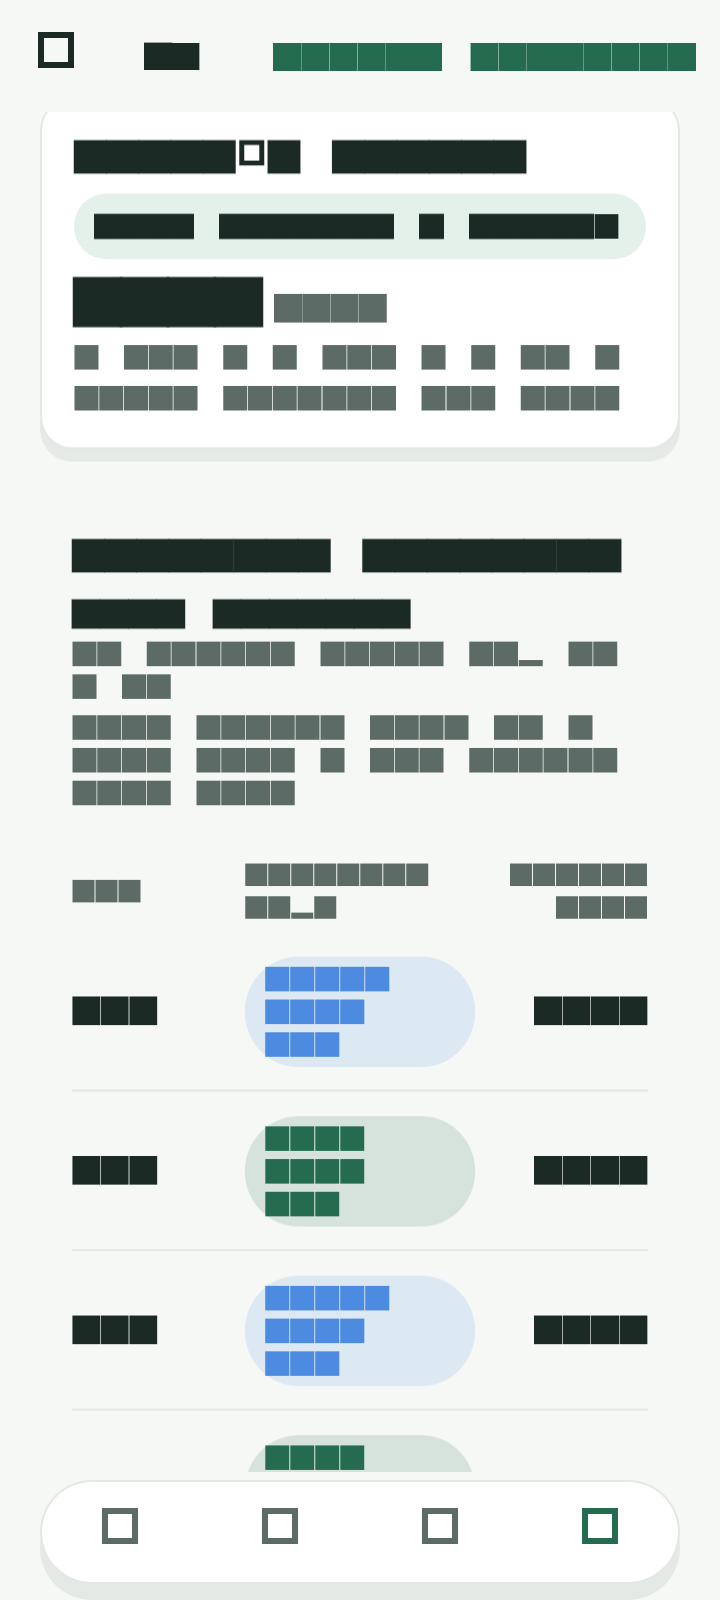
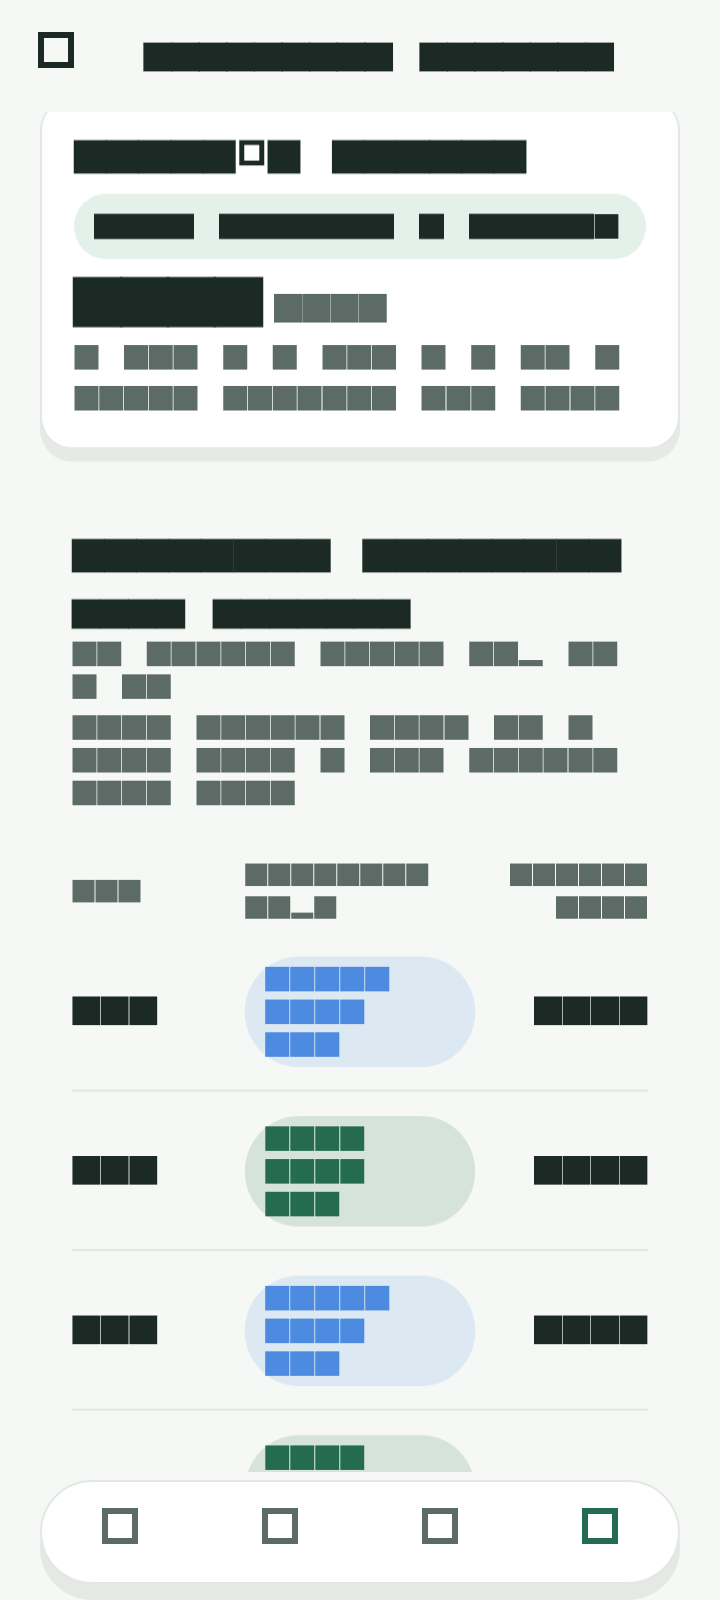
refactor(ui): drop duplicate top-right save / adjust buttons
- profile edit: remove the AppBar save action; the bottom "保存" button stays
- nutrition targets: remove the AppBar "调整策略" action; the in-body
  选择/更改策略 row is the single entry point

analyze clean; tests green; goldens regenerated.

Claude-Session: https://claude.ai/code/session_01CWB8cLUtUBP9ZBJ1jWMsCM

Changed region(s): [[0.275, 0.0, 0.9778, 0.0625]]

diff --git a/lib/ui/strategy/nutrition_targets_page.dart b/lib/ui/strategy/nutrition_targets_page.dart
@@ -78,16 +78,7 @@ class NutritionTargetsPage extends ConsumerWidget {
         active != null && active.effectiveFrom.isAfter(today);
 
     return AppChromeScaffold(
-      appBar: AppBar(
-        title: Text(l10n.nutritionTargets),
-        actions: [
-          if (blocking.isEmpty)
-            TextButton(
-              onPressed: () => context.push('/profile/nutrition/strategy'),
-              child: Text(l10n.adjustStrategy),
-            ),
-        ],
-      ),
+      appBar: AppBar(title: Text(l10n.nutritionTargets)),
       body: ListView(
         padding: EdgeInsets.fromLTRB(
           AppSpacing.formPage,

diff --git a/lib/ui/profile/profile_edit_page.dart b/lib/ui/profile/profile_edit_page.dart
@@ -178,15 +178,7 @@ class _ProfileEditPageState extends ConsumerState<ProfileEditPage> {
         context.pop();
       },
       child: Scaffold(
-        appBar: AppBar(
-          title: Text(l10n.myProfile),
-          actions: [
-            TextButton(
-              onPressed: _saving || !_dirty ? null : _saveAndPop,
-              child: Text(_saving ? l10n.saving : l10n.save),
-            ),
-          ],
-        ),
+        appBar: AppBar(title: Text(l10n.myProfile)),
         body: ListView(
           padding: const EdgeInsets.fromLTRB(
             AppSpacing.formPage,
